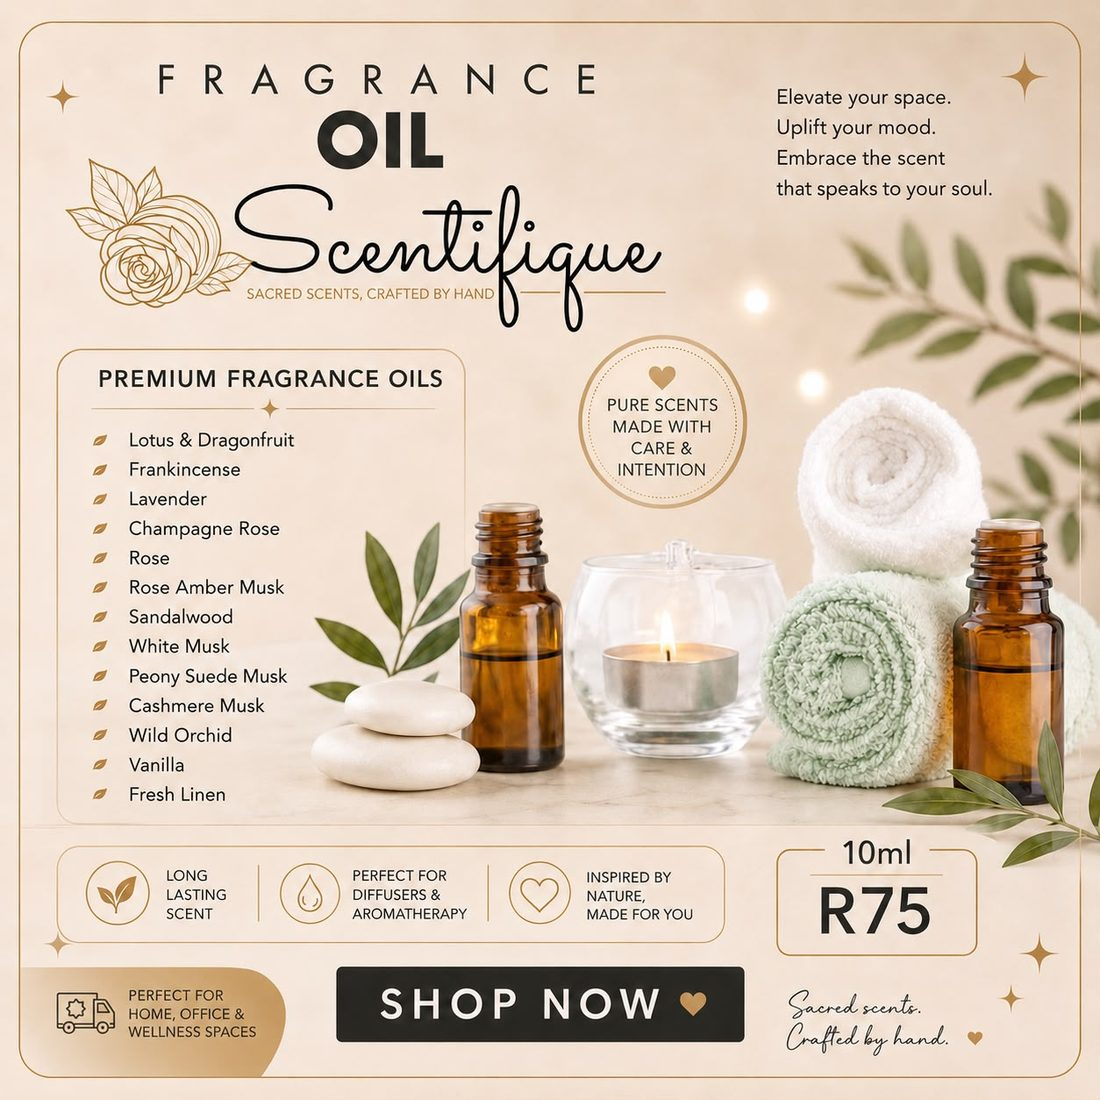
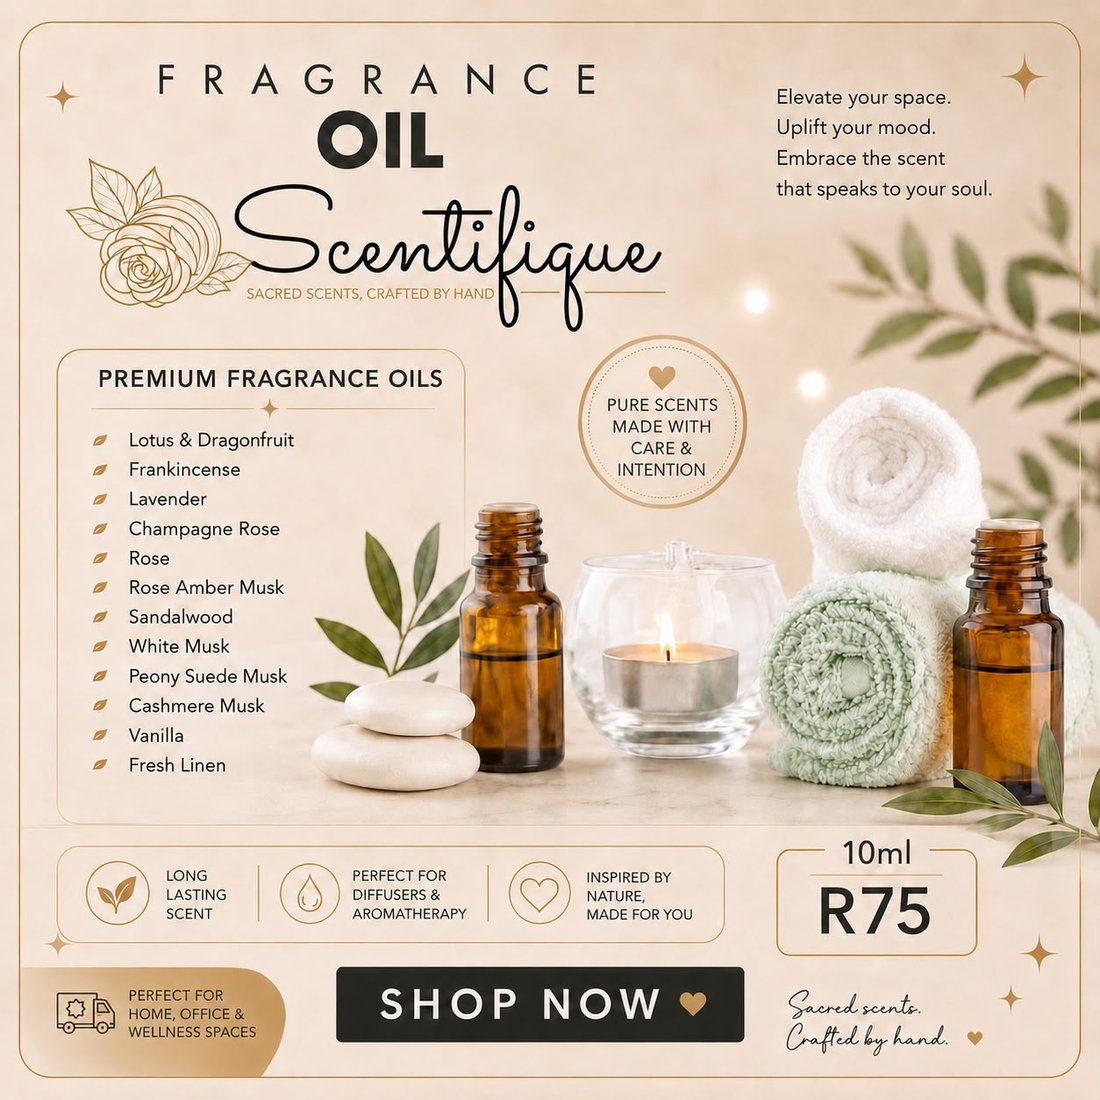
Update Fragrance Oil card and remove Wild Orchid (out of stock)
New card photo, scent count 13 -> 12.

diff --git a/scentifique.html b/scentifique.html
@@ -303,7 +303,6 @@ footer{background:var(--bg2);border-top:1px solid var(--border);padding:40px 32p
       <span class="scent-pill">White Musk</span>
       <span class="scent-pill">Peony Suede Musk</span>
       <span class="scent-pill">Cashmere Musk</span>
-      <span class="scent-pill">Wild Orchid</span>
       <span class="scent-pill">Vanilla</span>
       <span class="scent-pill">Fresh Linen</span>
     </div>
@@ -316,7 +315,7 @@ footer{background:var(--bg2);border-top:1px solid var(--border);padding:40px 32p
       <div class="product-info">
         <div class="badge badge-gold">Available</div>
         <div class="product-name">Fragrance Oil 10ml</div>
-        <div class="product-sub">Handcrafted fragrance oil in 13 scents — see the scent list above and specify when ordering.</div>
+        <div class="product-sub">Handcrafted fragrance oil in 12 scents — see the scent list above and specify when ordering.</div>
         <div class="product-footer"><span class="product-price">R75</span><button class="add-btn" onclick="addToCart('Fragrance Oil 10ml — Scentifique (specify scent)','R75','scentifique-fragrance-oil-card.jpg')">+ Add to Order</button></div>
       </div>
     </div>
